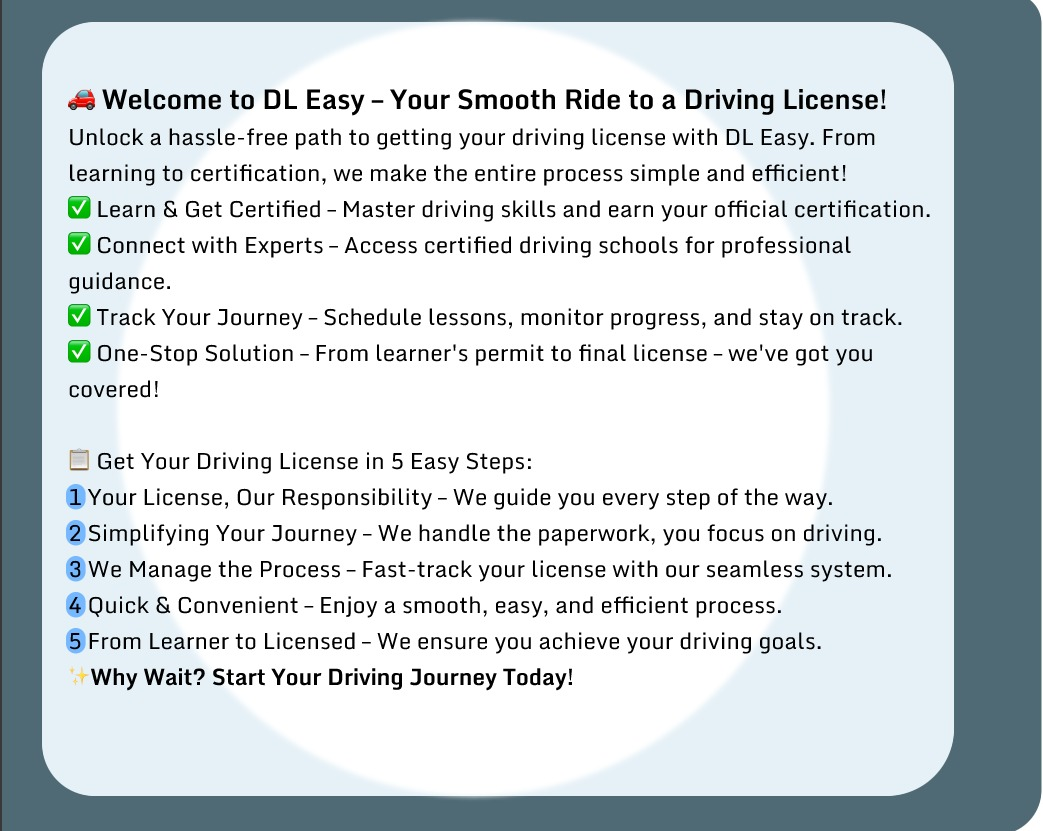
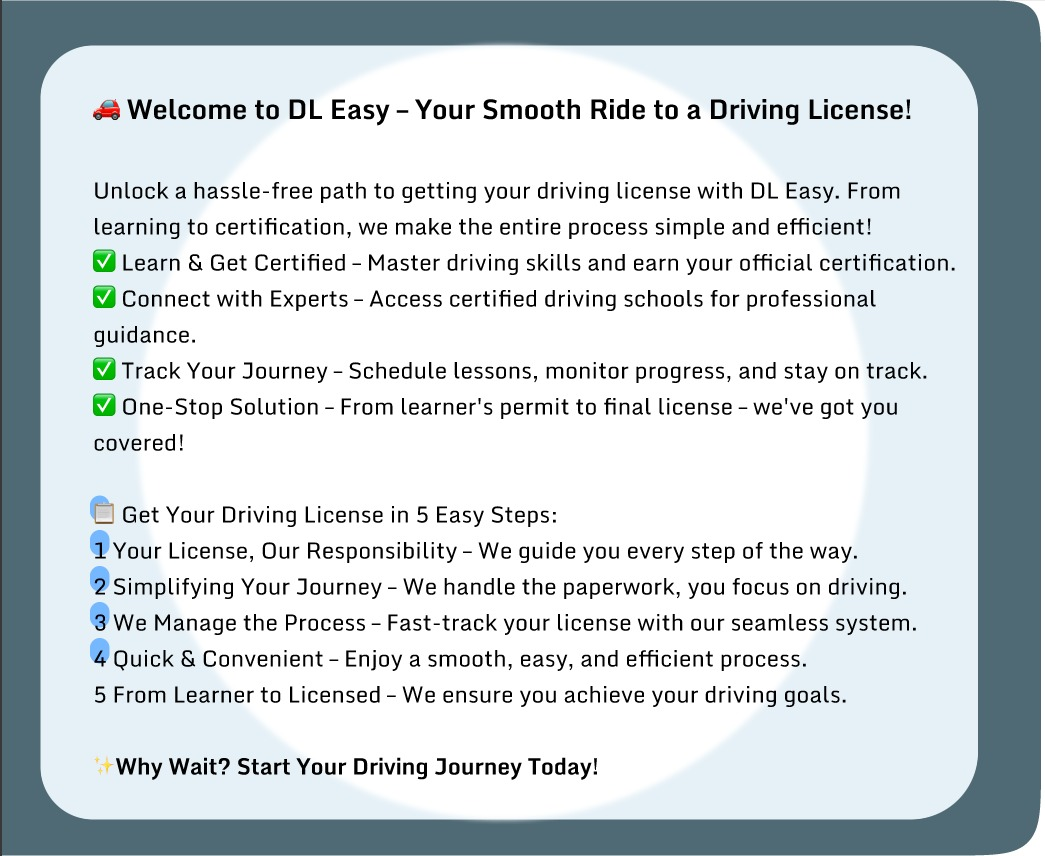
Doneee

diff --git a/src/styles/Loginpage.css b/src/styles/Loginpage.css
@@ -55,8 +55,8 @@ body {
 }
 
 .intro{
-    margin-top: -4.5%;
-    margin-left: -4.6%;
+    margin-top: -4.3%;
+    margin-left: -4.4%;
     padding: 40px;
     width: 100%;
     max-width: 850px;
